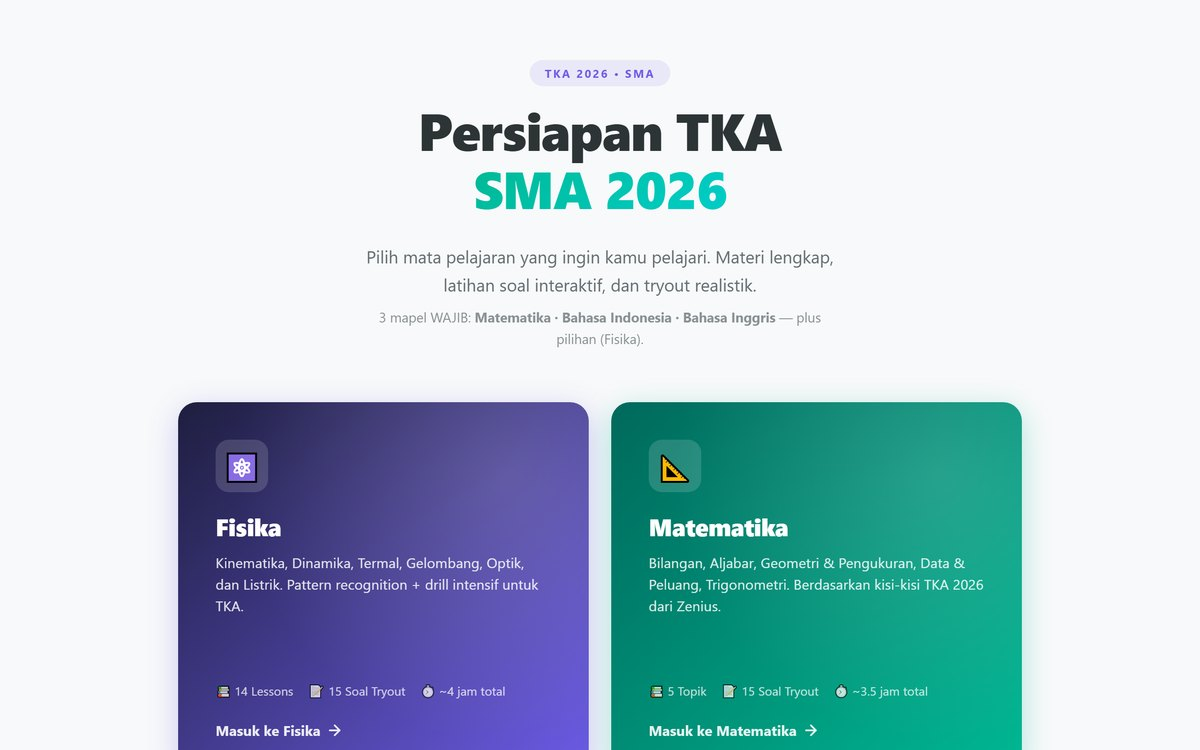
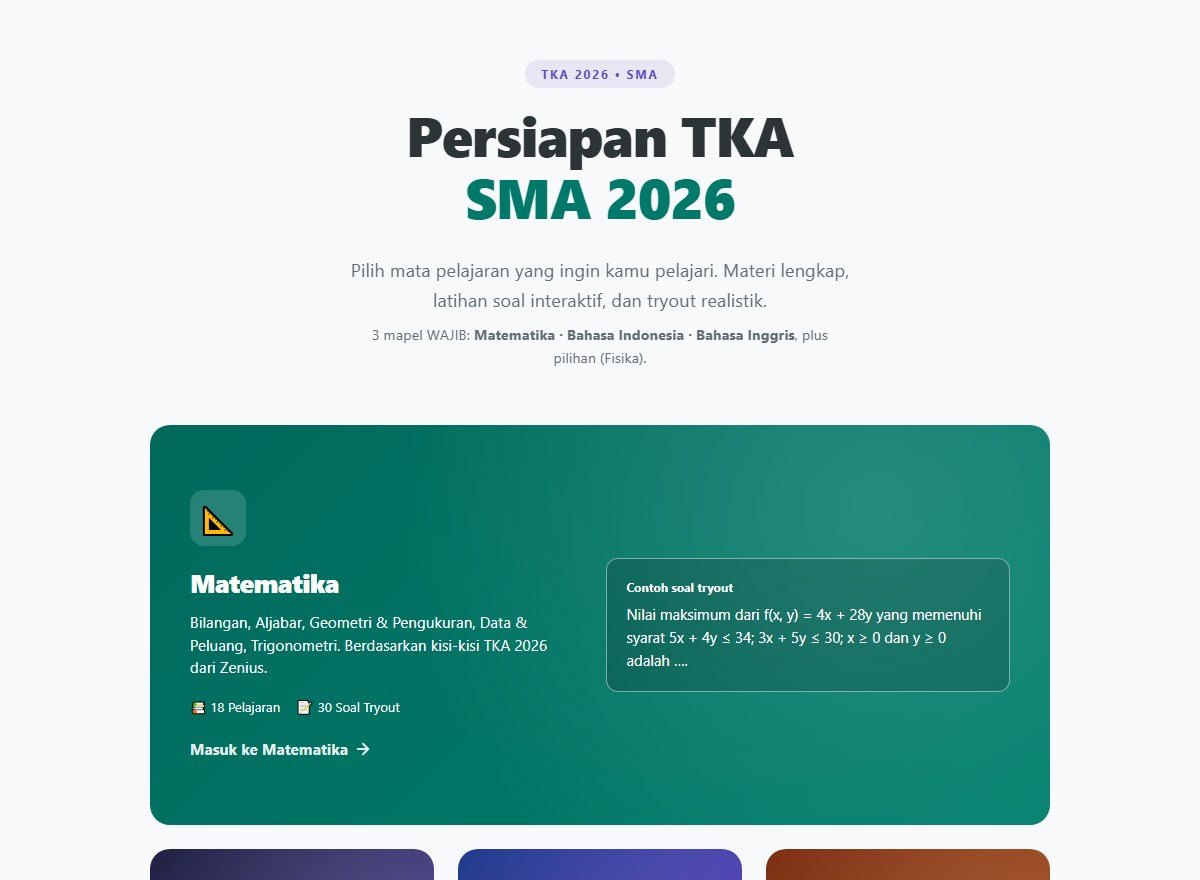
docs: rewrite repo page against merged audit (15 findings, 4 HIGH)
Screenshots:
- Reshot from the LIVE site, not the local build. The old hub image predated
  the redesign and showed "15 Soal Tryout" where the site says 30.
- Framed at 1200x880 so the Matematika feature card is fully in frame with its
  rounded bottom edge, instead of being clipped mid-card.

README:
- Removed the fixed end date ("24 Oktober 2026"); it was already false.
- Corrected the regeneration claim. The README said 25 questions regenerate on
  every load; the seed persists in localStorage so a reload is identical. That
  behaviour is deliberate (a student should not lose their place). The copy now
  describes what the code does, and the code is unchanged.
- Opening now names the audience, the 3-wajib/1-pilihan split, and a working
  contact route. Previously it said "hubungi pemilik" with no way to do so.
- Isi table gained a Status column; row order matches the hub.
- "Struktur situs tidak terlihat" narrowed to what is checkable: filenames are
  hashed. LICENSE no longer names an internal path.
- Keamanan leads with purpose; the mechanism is kept as a verifiable paragraph.
- Removed the last HTML layout table; em and en dashes now 0.

Repo description and topics are set separately, not in this commit.

diff --git a/README.md b/README.md
@@ -1,59 +1,88 @@
 # Persiapan TKA SMA 2026
 
-Situs belajar untuk TKA (Tes Kemampuan Akademik) 2026 — empat mata pelajaran dalam satu tempat: **Fisika, Matematika, Bahasa Inggris, dan Bahasa Indonesia**.
+Materi belajar untuk TKA (Tes Kemampuan Akademik) 2026, untuk siswa SMA yang
+mau latihan soal dengan pembahasan, bukan sekadar membaca rangkuman. Tiga mapel
+wajib (**Matematika, Bahasa Indonesia, Bahasa Inggris**) plus satu mapel pilihan
+(**Fisika**).
 
-**Situs:** https://rendyyxyz.github.io/Teaching-TKA/ — *terkunci, hubungi pemilik untuk akses.*
+**Situs:** https://rendyyxyz.github.io/Teaching-TKA/ · [minta akses lewat GitHub](https://github.com/rendyyxyz)
+
+Situsnya terkunci dengan kata sandi. Buka tautan profil di atas, lalu hubungi
+lewat GitHub atau buka issue di repositori ini.
+
+Yang membedakan halaman tryout Matematika: 25 dari 30 soalnya memakai angka yang
+dihasilkan generator, jadi kamu berlatih metodenya, bukan menghafal jawabannya.
+Angkanya tetap sama kalau halaman dimuat ulang, supaya pekerjaanmu tidak hilang
+saat tab tertutup. Tombol **"Ganti angka soal ini"** memberi variasi baru kapan
+pun kamu mau.
 
 ---
 
 ## Tentang repositori ini
 
-Ini adalah **build publik** dari proyek pribadi. Riwayat commit di sini mengikuti tanggal pengerjaan aslinya (26 September – 24 Oktober 2026), tetapi isinya adalah hasil build terenkripsi pada tiap tanggal, bukan kode sumbernya.
+Ini adalah **build publik** dari proyek pribadi. Riwayat commit di sini mengikuti
+tanggal pengerjaan aslinya, sejak 26 September 2026, tetapi isinya adalah hasil
+build terenkripsi pada tiap tanggal, bukan kode sumbernya.
 
-Kode sumber dan riwayat pengembangan lengkap tersimpan di repositori privat. Yang dipublikasikan di sini hanya hasil build yang sudah terenkripsi, supaya isi pelajaran tidak dapat dibaca tanpa kata sandi.
+Kode sumber dan riwayat pengembangan lengkap tersimpan di repositori privat. Yang
+dipublikasikan di sini hanya hasil build yang sudah terenkripsi, supaya isi
+pelajaran tidak dapat dibaca tanpa kata sandi.
 
 ## Sekilas
 
-<table>
-<tr>
-<td width="50%"><b>Halaman kunci</b><br><img src="docs/screenshots/01-lock.jpg" alt="Halaman kunci"></td>
-<td width="50%"><b>Hub — pilih mata pelajaran</b><br><img src="docs/screenshots/02-hub-desktop.jpg" alt="Hub"></td>
-</tr>
-</table>
+| Halaman kunci | Hub |
+|---|---|
+| ![Halaman kunci](docs/screenshots/01-lock.jpg) | ![Hub](docs/screenshots/02-hub-desktop.jpg) |
 
-> Tangkapan layar isi pelajaran sengaja tidak dipublikasikan di sini — situsnya terkunci dengan kata sandi, dan gambar isi pelajaran di repositori publik akan membuka apa yang seharusnya dilindungi.
+> Tangkapan layar isi pelajaran sengaja tidak dipublikasikan di sini. Situsnya
+> terkunci dengan kata sandi, dan gambar isi pelajaran di repositori publik akan
+> membuka apa yang seharusnya dilindungi.
 
 ---
 
 ## Isi
 
-| Mata pelajaran | Materi |
-|---|---|
-| **Fisika** | Kinematika, dinamika, termal, gelombang, optik, listrik |
-| **Matematika** | Bilangan, aljabar, geometri, trigonometri, data & peluang |
-| **Bahasa Inggris** | Reading comprehension, text types, grammar |
-| **Bahasa Indonesia** | Teks informasi & fiksi, gagasan utama, hubungan antarparagraf |
+| Mata pelajaran | Status | Materi |
+|---|---|---|
+| **Matematika** | Wajib | Bilangan, aljabar, geometri, trigonometri, data & peluang |
+| **Bahasa Indonesia** | Wajib | Teks informasi & fiksi, gagasan utama, hubungan antarparagraf |
+| **Bahasa Inggris** | Wajib | Reading comprehension, text types, grammar |
+| **Fisika** | Pilihan | Kinematika, dinamika, termal, gelombang, optik, listrik |
 
-Setiap mapel punya materi bertahap, bank soal, dan latihan dengan pembahasan.
+Tiap mapel punya materi bertahap, bank soal, dan latihan dengan pembahasan per
+soal.
 
 ## Mesin tryout
 
-Halaman tryout Matematika memuat 30 soal; 25 di antaranya **diregenerasi setiap kali dimuat** dengan angka baru, dan pembahasannya ikut dihitung ulang. Tujuannya supaya yang dilatih adalah metodenya, bukan hafalan jawaban.
+Halaman tryout Matematika memuat 30 soal. 25 di antaranya memakai angka baru dari
+generator, dan pembahasannya ikut dihitung ulang dari angka yang sama, jadi
+langkah penyelesaiannya selalu cocok dengan soalnya.
 
-Ada juga tombol **"Ganti angka soal ini"** per soal, sehingga satu soal bisa diulang tanpa kehilangan jawaban soal lain.
+Angka itu diambil dari seed acak yang disimpan di browser. Muat ulang halaman dan
+papernya tetap sama, supaya kamu bisa berhenti di tengah tryout untuk menghitung
+di kertas lalu melanjutkan tanpa kehilangan posisi. Tombol **"Ganti angka soal
+ini"** di tiap soal memberi variasi baru tanpa mengubah soal lain.
+
+Lima soal sisanya sengaja tidak diacak (soal 14 sampai 18). Semuanya soal
+geometri dan bangun ruang yang bergantung pada gambar, dan gambarnya itu sendiri
+adalah pertanyaannya.
 
 ## Keamanan
 
-Seluruh isi situs disimpan **terenkripsi** (AES-256-GCM). Kunci diturunkan dari kata sandi memakai PBKDF2-SHA256 dengan 1.000.000 iterasi. Nama berkas pun di-hash, sehingga struktur situs tidak terlihat dari repositori.
+Repositori publik ini memuat materi belajar privat, dan enkripsi adalah cara
+materinya tetap privat meski repositorinya terbuka. Tanpa kata sandi, isi
+repositori hanya berupa ciphertext.
 
-Tanpa kata sandi, isi repositori ini hanya berupa ciphertext dan tidak dapat dibaca.
-
-## Teknologi
-
-HTML, CSS, dan JavaScript murni. Tanpa framework, tanpa backend, tanpa dependensi npm. Dekripsi dilakukan di browser oleh service worker, sehingga tidak ada server yang perlu dijalankan.
+Rinciannya, kalau kamu ingin memeriksa: isi situs dienkripsi AES-256-GCM, kunci
+diturunkan dari kata sandi dengan PBKDF2-SHA256 sebanyak 1.000.000 iterasi, dan
+nama berkas isi di-hash sehingga daftar halamannya tidak terbaca dari repositori.
+Dekripsi dilakukan di browser oleh service worker, jadi tidak ada server yang
+perlu dijalankan. Seluruhnya HTML, CSS, dan JavaScript murni, tanpa framework
+dan tanpa dependensi npm.
 
 ## Lisensi
 
-Hak cipta dilindungi. Lihat [LICENSE](LICENSE).
+Hak cipta dilindungi, lihat [LICENSE](LICENSE).
 
-Soal-soal pada halaman tryout Matematika diturunkan dari kertas ujian **TO-1 TKA Mapel Wajib — PROSUS INTEN (TA 2025/2026)** dan tetap menjadi milik penerbitnya.
+Soal-soal pada halaman tryout Matematika diturunkan dari kertas ujian **TO-1 TKA
+Mapel Wajib, PROSUS INTEN (TA 2025/2026)** dan tetap menjadi milik penerbitnya.
